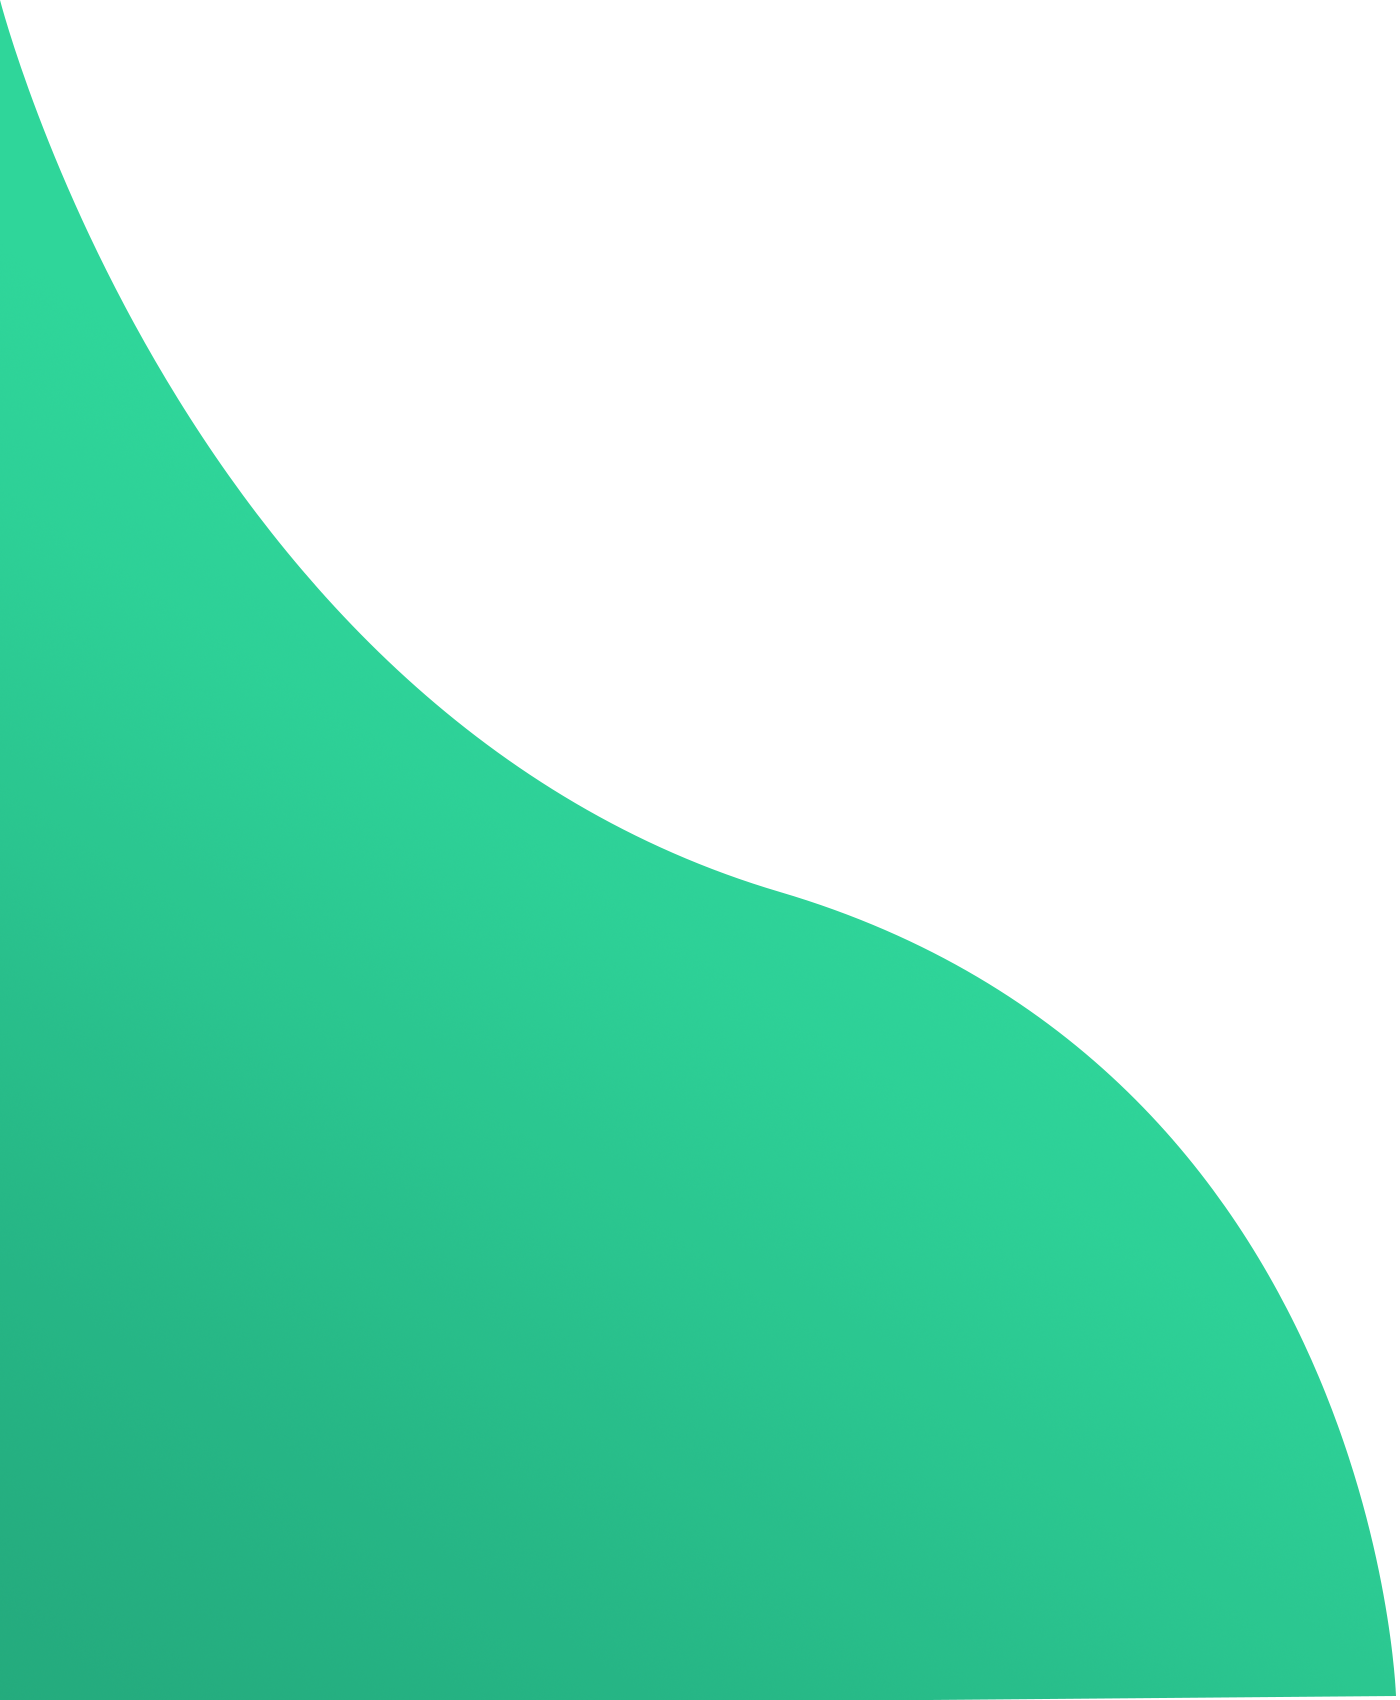
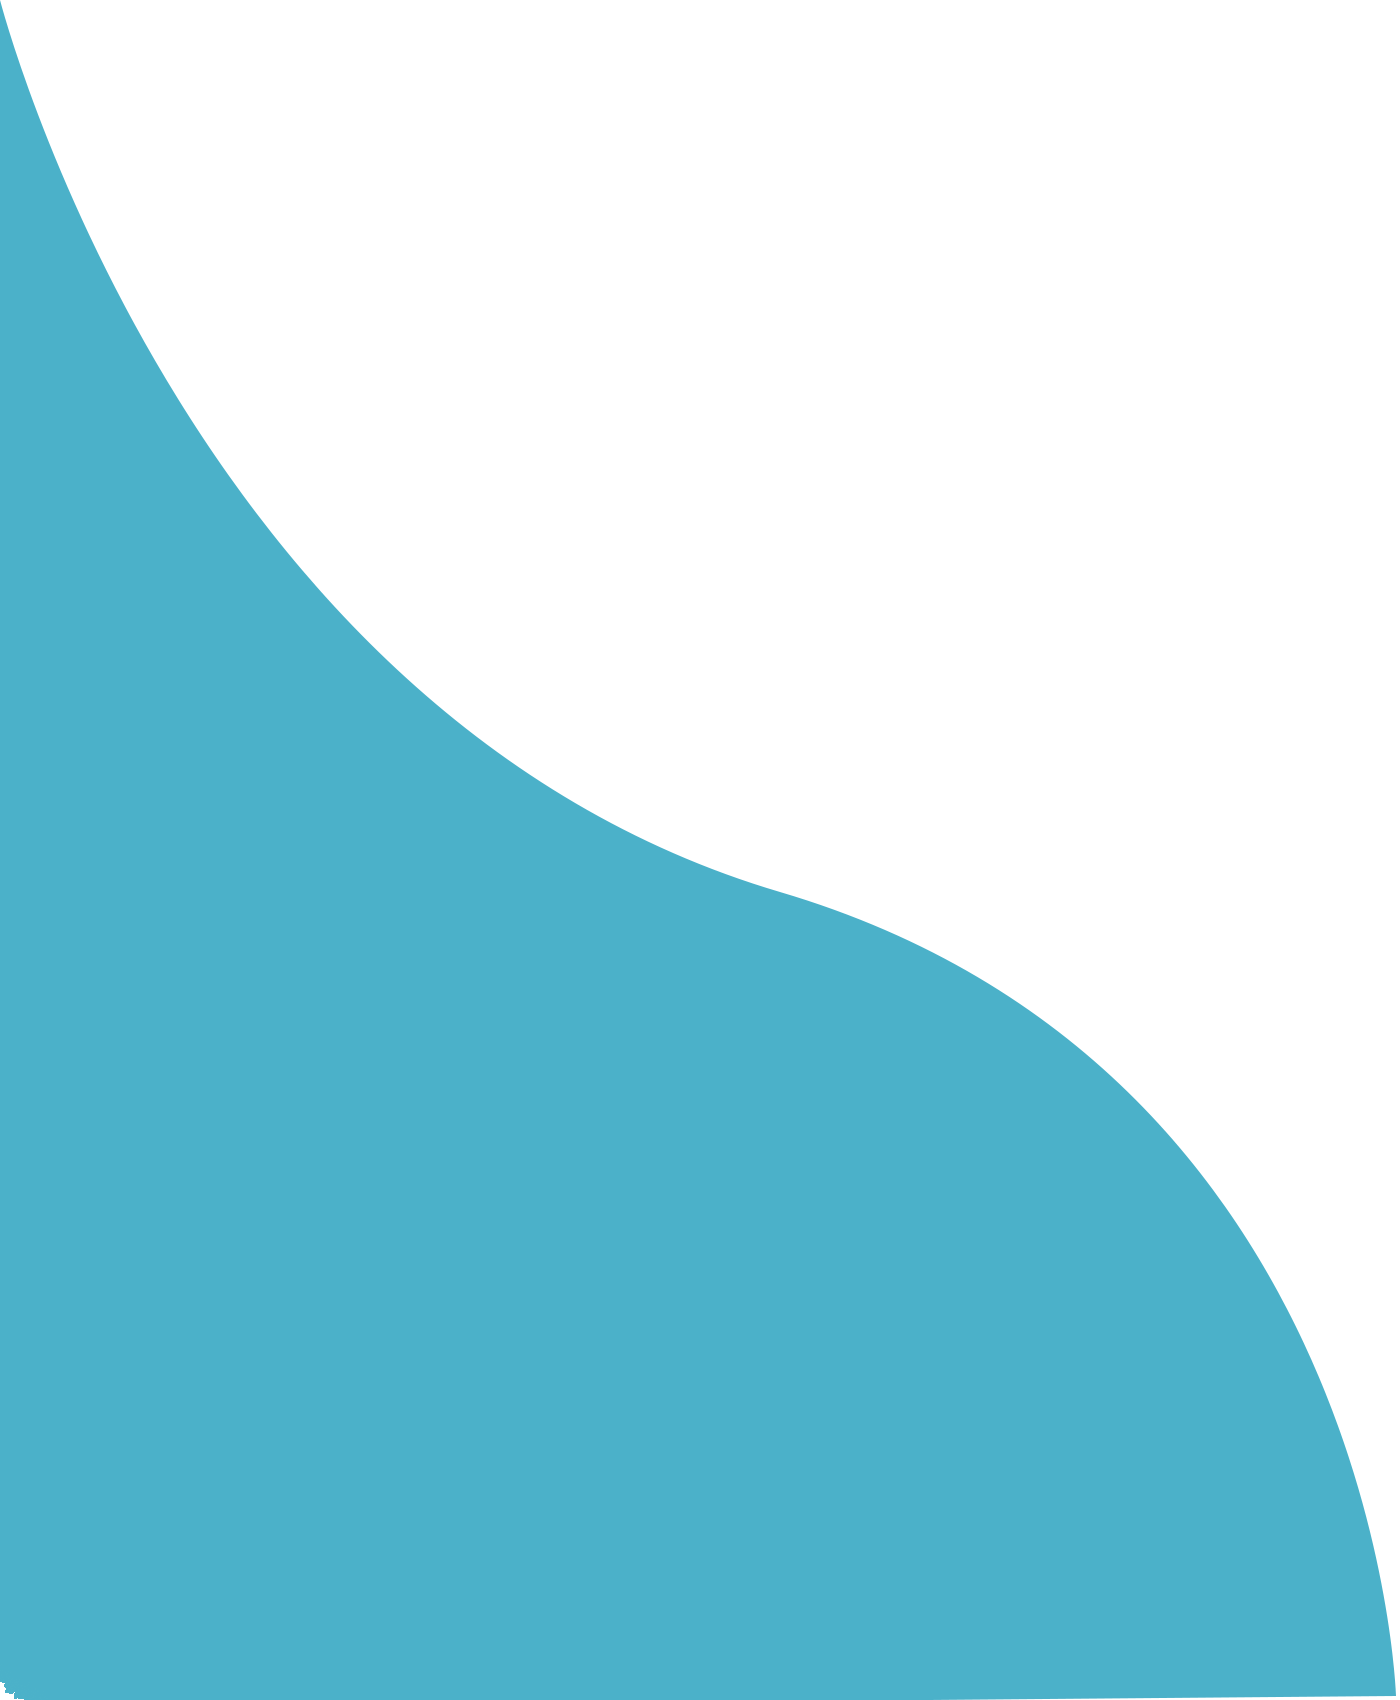
Changed Auth pages colors

diff --git a/src/components/Auth/Login/LoginForm/LoginForm.scss b/src/components/Auth/Login/LoginForm/LoginForm.scss
@@ -11,12 +11,12 @@
 
   &__restart-password-link {
     align-self: flex-end;
-    padding-top: 0.2em;
+    padding-top: 0.4em;
     padding-bottom: 0.2em;
-    font-weight: 400;
-    letter-spacing: 1.5px;
-    color: $dark;
-    font-size: 1.4rem;
+    font-weight: 600;
+    letter-spacing: 1.2px;
+    color: $darker;
+    font-size: 1.6rem;
     transition: color 0.3s;
 
     &:hover {
@@ -26,7 +26,7 @@
 
   &__register-text {
     letter-spacing: 1px;
-    color: $dark;
+    color: $darker;
     font-size: 1.6rem;
     font-weight: 600;
   }
@@ -53,10 +53,6 @@
     @include auth-form-media-992px;
     &__restart-password-link {
       font-size: 1.5rem;
-    }
-
-    &__register-text {
-      font-size: 2rem;
     }
   }
 }

diff --git a/src/components/Layout/AuthLayout/AuthLayaout.scss b/src/components/Layout/AuthLayout/AuthLayaout.scss
@@ -8,8 +8,8 @@
 
   &__wave-img {
     position: absolute;
-    top: -68vw;
-    right: -45vw;
+    top: -50vw;
+    right: -30vw;
     transform: rotate(180deg);
     height: 100vh;
     z-index: -5;
@@ -37,8 +37,8 @@
 @media (min-width: 768px) {
   .auth {
     &__wave-img {
-      top: -50vw;
-      right: -22vw;
+      top: -25vw;
+      right: -12vw;
     }
 
     &__img {
@@ -55,7 +55,7 @@
   .auth {
     &__wave-img {
       top: -10vw;
-      right: 0;
+      right: -20vw;
     }
 
     &__img {

diff --git a/src/components/UI/Buttons/Button/Button.scss b/src/components/UI/Buttons/Button/Button.scss
@@ -3,12 +3,12 @@
 .btn {
   width: 100%;
   padding: 0.8em 1.2em;
-  margin: 0.5em;
+  margin: 1em;
   border-radius: 8px;
   border: none;
   cursor: pointer;
-  color: #fff;
-  background-color: $main;
+  color: $light-white;
+  background-color: $darker;
   text-align: center;
   font-weight: 600;
   letter-spacing: 1.5px;
@@ -16,7 +16,7 @@
   transition: background-color 0.3s;
 
   &:hover {
-    background-color: $secondary;
+    background-color: $dark;
     color: #fff;
   }
 }

diff --git a/src/components/Auth/Login/RestartPassword/RestartPassword.scss b/src/components/Auth/Login/RestartPassword/RestartPassword.scss
@@ -12,6 +12,7 @@
     color: $dark;
     font-size: 1.6rem;
     font-weight: 600;
+    margin: 0;
   }
 }
 
@@ -20,7 +21,7 @@
     @include auth-form-media-768px;
 
     &__login-text {
-      font-size: 2.5rem;
+      font-size: 2rem;
     }
   }
 }
@@ -28,9 +29,5 @@
 @media (min-width: 992px) {
   .restart-password-form {
     @include auth-form-media-992px;
-
-    &__login-text {
-      font-size: 2.5rem;
-    }
   }
 }

diff --git a/src/components/UI/Spinner/Spinner.scss b/src/components/UI/Spinner/Spinner.scss
@@ -13,10 +13,10 @@
   width: 40px;
   height: 40px;
   margin: 1em;
-  border: 4px solid $main;
+  border: 4px solid $secondary;
   border-radius: 50%;
   animation: lds-ring 1.2s cubic-bezier(0.5, 0, 0.5, 1) infinite;
-  border-color: $main transparent transparent transparent;
+  border-color: $secondary transparent transparent transparent;
 }
 .lds-ring div:nth-child(1) {
   animation-delay: -0.45s;

diff --git a/src/components/Auth/Shared/Title/Title.scss b/src/components/Auth/Shared/Title/Title.scss
@@ -18,7 +18,7 @@
     letter-spacing: 3px;
     font-size: 3.2rem;
     text-align: center;
-    color: $main;
+    color: $darker;
     &:first-child {
       text-transform: capitalize;
     }
@@ -38,7 +38,6 @@
       font-weight: 700;
       letter-spacing: 3px;
       font-size: 4rem;
-      color: $main;
     }
   }
 }

diff --git a/src/components/UI/Form/AuthInput/AuthInput.scss b/src/components/UI/Form/AuthInput/AuthInput.scss
@@ -21,8 +21,8 @@
     padding-left: 1em;
 
     &:focus {
-      border: 1px solid $main;
-      box-shadow: 0px 0px 7px 1px $main;
+      border: 1px solid $secondary;
+      box-shadow: 0px 0px 7px 1px $secondary;
     }
   }
 }

diff --git a/src/components/Auth/Shared/Underline/Underline.scss b/src/components/Auth/Shared/Underline/Underline.scss
@@ -3,7 +3,7 @@
 .underline {
   height: 3px;
   width: 25%;
-  background-color: $main;
+  background-color: $secondary;
   border-radius: 8px;
   margin-bottom: 0.8em;
   margin-top: 0.4em;

diff --git a/src/assets/scss/mixins/_colors.scss b/src/assets/scss/mixins/_colors.scss
@@ -1,6 +1,7 @@
 $main: #242424;
 $secondary: #4bb1c9;
 $white: #e5e5e0;
+$light-white: #f0f0f0;
 $gray: #6f6f6e;
 $dark: #747474;
-$darker: #747474;
+$darker: #585858;

diff --git a/src/components/Auth/Register/RegisterForm/RegisterForm.scss b/src/components/Auth/Register/RegisterForm/RegisterForm.scss
@@ -6,7 +6,7 @@
 
   &__login-text {
     letter-spacing: 1px;
-    color: $dark;
+    color: $darker;
     font-size: 1.6rem;
     font-weight: 600;
   }
